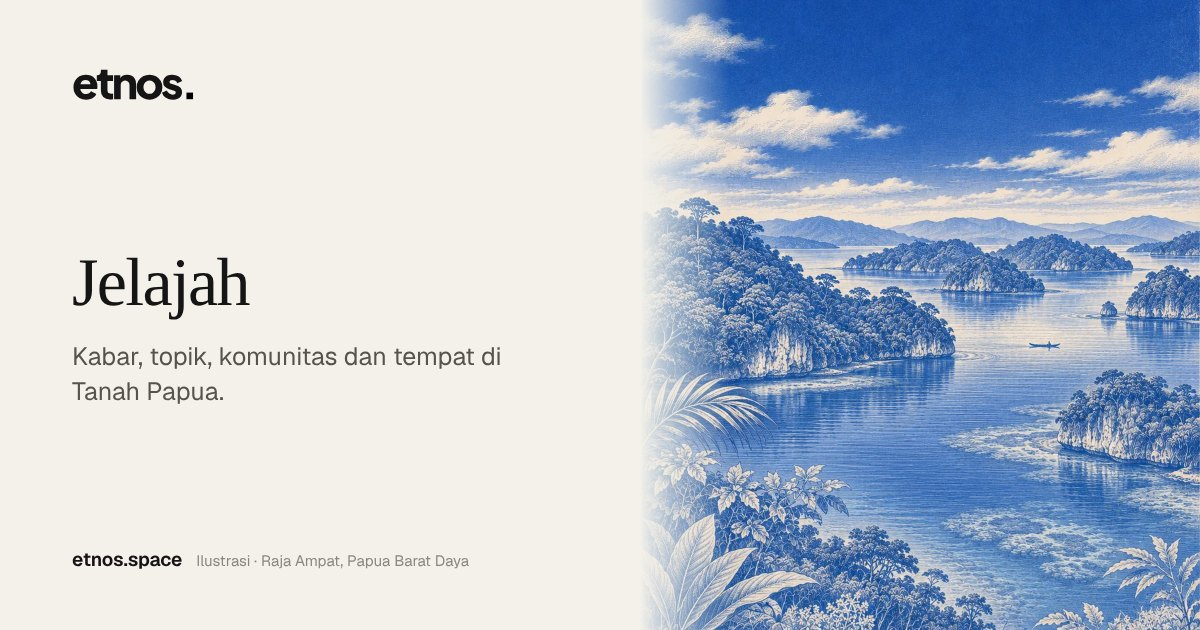
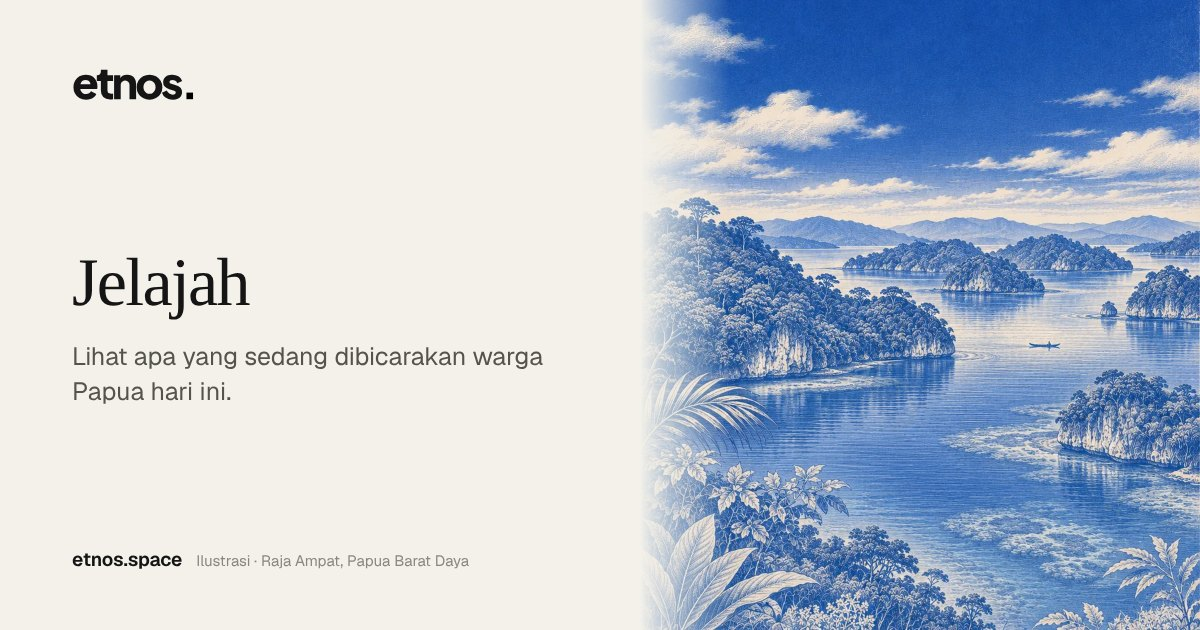
Preview cards and page descriptions in a natural voice
One plain sentence per page instead of comma lists.

Claude-Session: https://claude.ai/code/session_015shwuDdzuYH8FL2aSLKgWC

Changed region(s): [[0.0617, 0.5429, 0.4625, 0.6333]]

diff --git a/src/share.ts b/src/share.ts
@@ -1,16 +1,16 @@
 /** Public sharing projection. Callers provide anonymous, bounded reads only. */
 export type Share = {title:string;description:string;path:string;image:string;imageAlt:string;type:'website'|'article';index:boolean;article?:{title:string;text:string;citations:string[];updated:number;reviewed:boolean}}
-const description='Kabar, komunitas dan pengetahuan tentang Tanah Papua.'
+const description='Tempat warga Papua bertukar kabar dan cerita.'
 export const defaultShare=():Share=>({title:'ETNOS',description,path:'/',image:'/share/default.jpg',imageAlt:'ETNOS — '+description,type:'website',index:false})
 export function previewText(value:unknown,max=240){return String(value??'').replace(/!\[[^\]]*\]\([^)]*\)/g,' ').replace(/\[([^\]]+)\]\([^)]*\)/g,'$1').replace(/<[^>]*>/g,' ').replace(/[#*_`~>|]/g,'').replace(/[\u0000-\u001f\u007f]/g,' ').replace(/\s+/g,' ').trim().slice(0,max)}
 const uuid=/^[a-f0-9-]{36}$/
 type Read=(path:string)=>Promise<any>
 const pages:Record<string,[string,string]>={
- '/':['ETNOS',description],'/explore':['Jelajah ETNOS','Kabar, topik, komunitas dan tempat di Tanah Papua.'],
- '/news':['Kabar · ETNOS','Ringkasan kabar Papua beserta sumber liputannya.'],'/communities':['Komunitas · ETNOS','Ruang percakapan warga dan organisasi.'],
- '/groups':['Organisasi · ETNOS','Ruang dan karya bersama dari organisasi.'],'/wiki':['Pengetahuan bersama · ETNOS','Halaman tentang tempat, bahasa dan sejarah Papua.'],
+ '/':['ETNOS',description],'/explore':['Jelajah ETNOS','Lihat apa yang sedang dibicarakan warga Papua hari ini.'],
+ '/news':['Kabar · ETNOS','Kabar terbaru dari Papua beserta sumber aslinya.'],'/communities':['Komunitas · ETNOS','Cari komunitas yang cocok, lalu ikut ngobrol.'],
+ '/groups':['Organisasi · ETNOS','Ruang dan karya bersama dari organisasi.'],'/wiki':['Pengetahuan bersama · ETNOS','Halaman tentang Papua yang ditulis dan diperiksa bersama warga.'],
  '/voices':['Suara komunitas · ETNOS','Pertanyaan, jajak pendapat dan tindak lanjut komunitas.'],'/work':['Kerja publik · ETNOS','Karya, laporan dan tindak lanjut yang disponsori.'],'/board':['Lajur · ETNOS','Jelajahi percakapan dalam beberapa linimasa.'],
- '/jadwal':['Jadwal Aksara · ETNOS','Waktu terbit tulisan Aksara setiap hari.'],
+ '/jadwal':['Jadwal Aksara · ETNOS','Lihat jam berapa Aksara menulis setiap hari.'],
 }
 // Static preview cards made by apps/web/scripts/share-cards.mjs (1200 x 630).
 const sectionCard:Record<string,string>={'/explore':'explore','/news':'news','/communities':'communities','/groups':'communities','/wiki':'wiki','/jadwal':'jadwal'}

diff --git a/apps/web/index.html b/apps/web/index.html
@@ -9,7 +9,7 @@
     <meta name="theme-color" content="#080a10" />
     <meta
       name="description"
-      content="Kabar, komunitas dan pengetahuan tentang Tanah Papua."
+      content="Tempat warga Papua bertukar kabar dan cerita."
     />
     <script src="/assets/appearance-init.js"></script>
     <link rel="preload" href="./node_modules/@fontsource-variable/geist/files/geist-latin-wght-normal.woff2" as="font" type="font/woff2" crossorigin />
